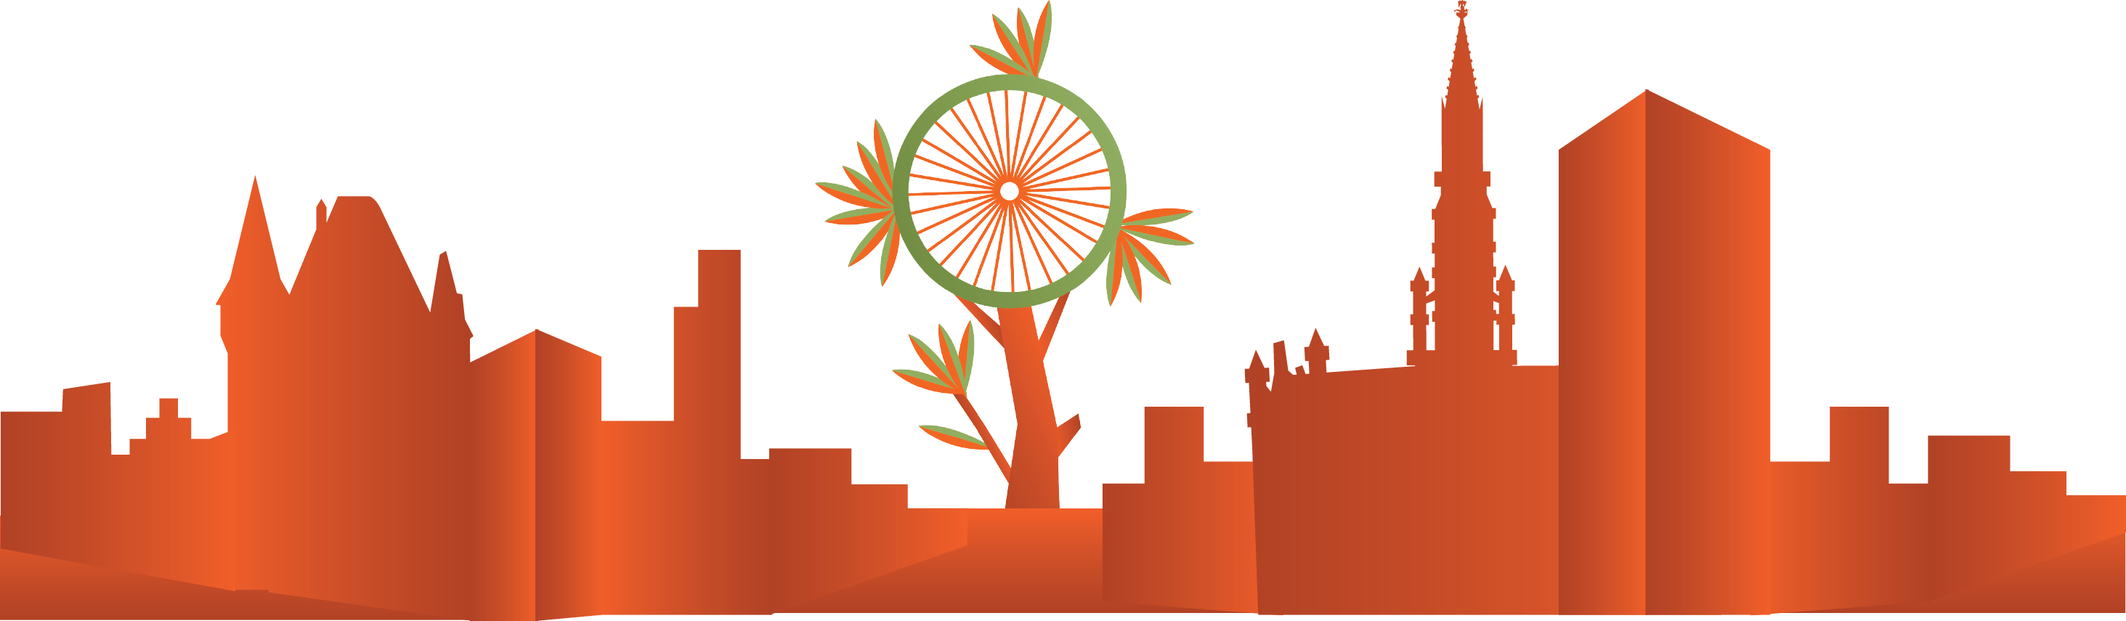
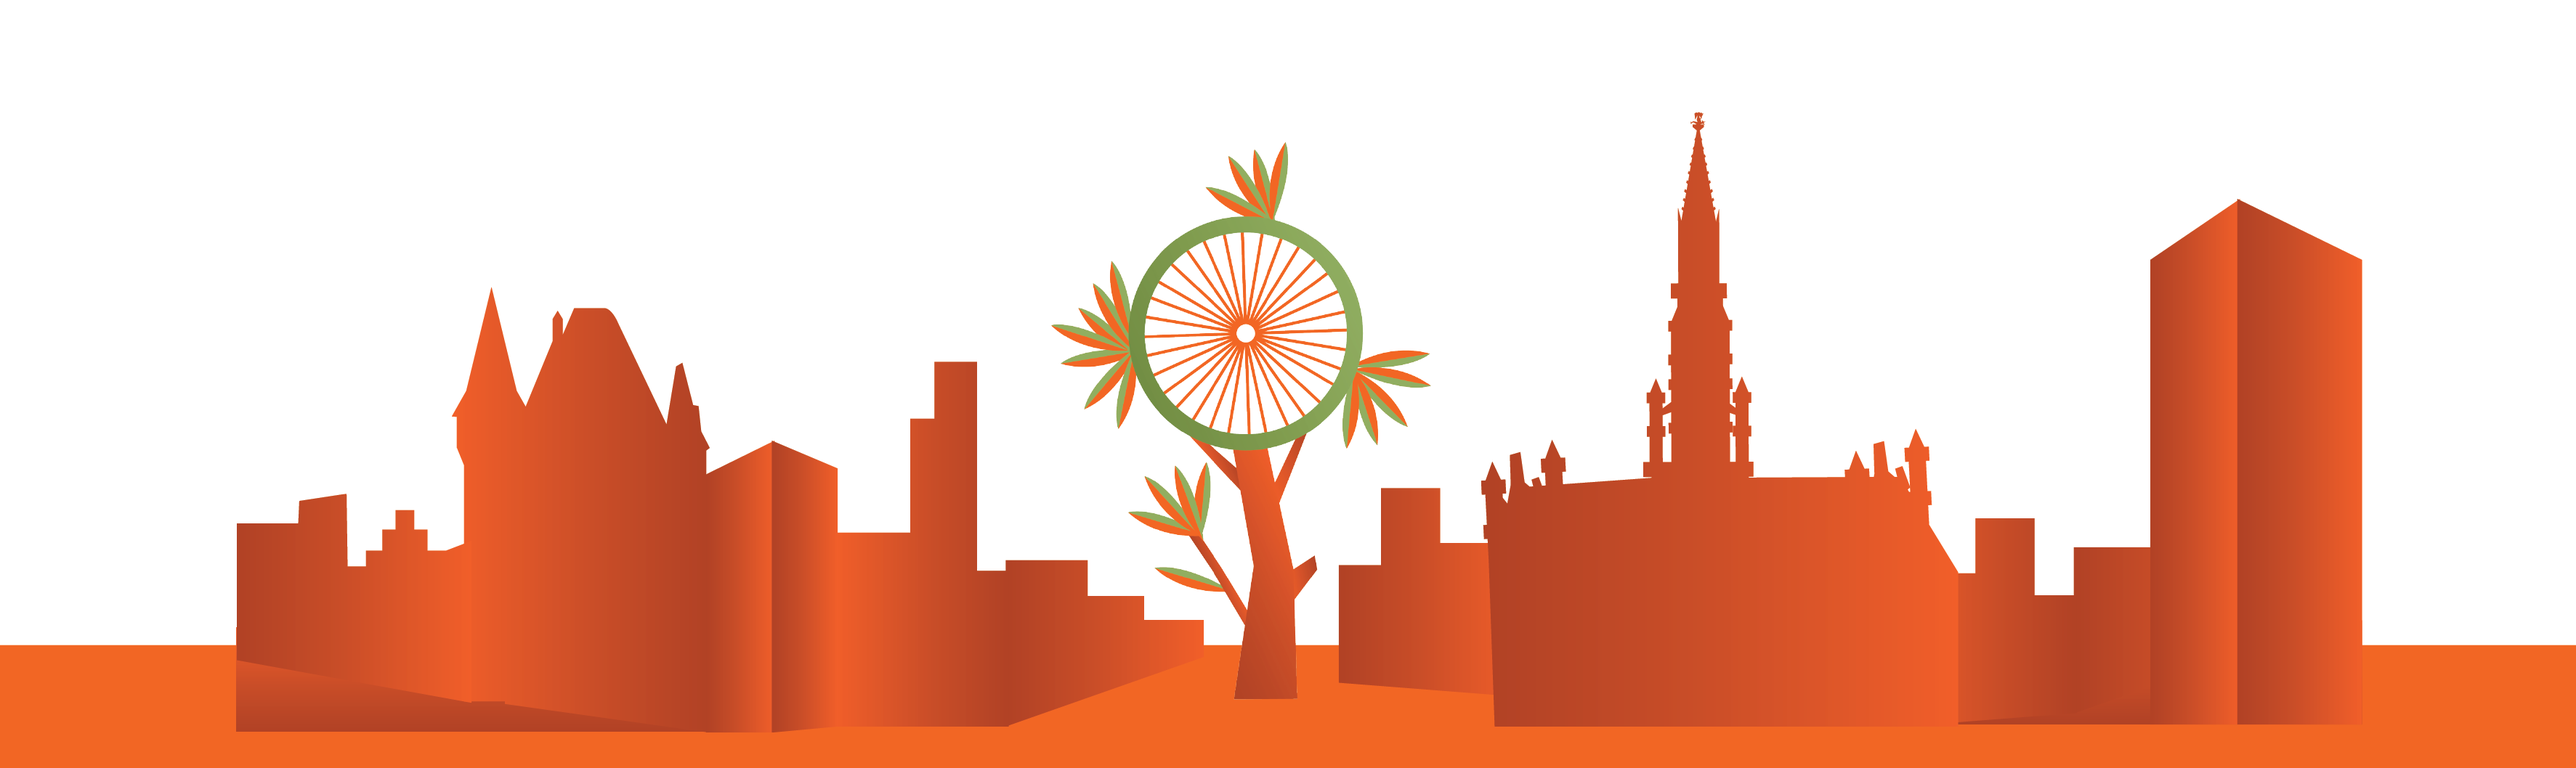
0.3

diff --git a/index.html b/index.html
@@ -54,7 +54,7 @@
           <!-- Navigation -->
           <div class="cyclop-navigation-container">
             <nav class="cyclop-navigation mdl-navigation">
-              <a class="mdl-navigation__link mdl-typography--text-uppercase" href="#asbl">L'assoc</a>
+              <a class="mdl-navigation__link mdl-typography--text-uppercase" href="#asbl">Het concept</a>
               <a class="mdl-navigation__link mdl-typography--text-uppercase" href="">L'équipe</a>
               <a class="mdl-navigation__link mdl-typography--text-uppercase" href="#bier">Commandes</a>
               <a class="mdl-navigation__link mdl-typography--text-uppercase" href="#contact">Contact</a>
@@ -64,28 +64,30 @@
             <i class="material-icons">more_vert</i>
           </button>
           <ul class="mdl-menu mdl-js-menu mdl-menu--bottom-right mdl-js-ripple-effect" for="more-button">
-            <li class="mdl-menu__item">5.0 Lollipop</li>
-            <li class="mdl-menu__item">4.4 KitKat</li>
-            <li disabled class="mdl-menu__item">4.3 Jelly Bean</li>
-            <li class="mdl-menu__item">cyclop History</li>
+            <li class="mdl-menu__item">Het concept</li>
+            <li class="mdl-menu__item">Het atelier</li>
+            <li hidden class="mdl-menu__item">4.3 Jelly Bean</li>
+            <li class="mdl-menu__item">Les Cyclopes</li>
           </ul>
         </div>
       </div>
 
       <div class="cyclop-drawer mdl-layout__drawer">
         <span class="mdl-layout-title">
-          <img class="cyclop-logo-image" src="images/cyclop-logoo.png">
+          <img class="cyclop-logo-image" src="images/cyclop-logo.png">
         </span>
         <nav class="mdl-navigation">
-          <a class="mdl-navigation__link" href="">Phones</a>
-          <a class="mdl-navigation__link" href="">Tablets</a>
+          <a class="mdl-navigation__link" href="">Het Concept</a>
           <div class="cyclop-drawer-separator"></div>
-          <span class="mdl-navigation__link" href="">Versions</span>
-          <a class="mdl-navigation__link" href="">Lollipop 5.0</a>
-          <a class="mdl-navigation__link" href="">KitKat 4.4</a>
+          <span hidden class="mdl-navigation__link" href="">Versions</span>
+          <a class="mdl-navigation__link" href="">Het Atelier</a>
+          <a class="mdl-navigation__link" href="">De Cyclopes</a>
+          <a class="mdl-navigation__link" href="">Vélo</a>
           <div class="cyclop-drawer-separator"></div>
-          <span class="mdl-navigation__link" href="">Resources</span>
-          <a class="mdl-navigation__link" href="">Official blog</a>
+          <span hidden class="mdl-navigation__link" href="">Resources</span>
+          <a class="mdl-navigation__link" href="">Bier</a>
+          <a class="mdl-navigation__link" href="">Cyclopagenda</a>
+          <a class="mdl-navigation__link" href="">Contact</a>
         </nav>
       </div>
 
@@ -133,20 +135,31 @@
         </div>
         <div class="cyclop-atelier-separation">
           <a name="atelier"></a>
+          <div class="cyclop-sub-title">Atelier</div>
         </div>
-        <div class="cyclop-atelier-section">
-          <div class="cyclop-atelier-band">
-            <div class="cyclop-atelier-band-text">
-              <div class="cyclop-sub-title">Atelier</div>
+            <div class="cyclop-atelier-section">
+              <div class="cyclop-atelier-band">
+                <div class="cyclop-atelier-band-text">
+                  <p>
+                    We hebben een lokaal in de quartier Anneessens
+                    <br>Allez, ‘t is te zeggen op de rand ervan, en juist op de rand met de Marollen
+                    <br>'t is in de Rue du Midi 165a, dichtbij place Rouppe
+                    <br>On adore le quartier et ses habitants, car on y retrouve la vie. Vous pouvez nous trouver (presque) elke maandag vanaf 18h tot ongeveer 20h
+                    <br>dans le local ou à l’extérieur, avec les kets et les adultes du quartier
+                    <br><br>Maar we bougeren ook dans tout les coins (de Bruxelles)
+                    <br>Les mercredis après-midi, nous assistons des associations de l’Aide à la jeunesse en Milieu Ouvert (AMO)
+                    <br>pour faciliter l’apprentisage des kets d’un tas des choses, à travers la mécanique vélo
+                  </p>
+                </div>
+              </div>
+            </div>
+        <div class="cyclop-cyclopes-section">
+          <div class="cyclop-cyclopes-bad">
+            <div class="cyclop-cyclopes-band-text">
+              <div class="cyclop-sub-title">De Cyclopes</div>
               <p>
-                We hebben een lokaal in de quartier Anneessens
-                <br>Allez, ‘t is te zeggen op de rand ervan, en juist op de rand met de Marollen
-                <br>'t is in de Rue du Midi 165a, dichtbij place Rouppe
-                <br>On adore le quartier et ses habitants, car on y retrouve la vie. Vous pouvez nous trouver (presque) elke maandag vanaf 18h tot ongeveer 20h
-                <br>dans le local ou à l’extérieur, avec les kets et les adultes du quartier
-                <br><br>Maar we bougeren ook dans tout les coins (de Bruxelles)
-                <br>Les mercredis après-midi, nous assistons des associations de l’Aide à la jeunesse en Milieu Ouvert (AMO)
-                <br>pour faciliter l’apprentisage des kets d’un tas des choses, à travers la mécanique vélo
+                La storyline 
+                <br>L'équipe, les amis
               </p>
             </div>
           </div>
@@ -182,13 +195,57 @@
                 </div>
                 <div class="mdl-card__title mdl-card--expand">
                   <h4>
-                    20 Septembre 2015<br>
+                    20/09/2015<br>
                     de 10h à 17h
                   </h4>
                 </div>
                 <div class="mdl-card__actions mdl-card--border">
                   <a class="mdl-button mdl-button--colored mdl-js-button mdl-js-ripple-effect">
-                    Ajouter à mes événements
+                    Viens !
+                  </a>
+                  <div class="mdl-layout-spacer"></div>
+                  <i class="material-icons">event</i>
+                </div>
+              </div>
+            </div>
+
+            <div class="mdl-cell mdl-cell--3-col mdl-cell--4-col-tablet mdl-cell--4-col-phone mdl-card mdl-shadow--3dp">
+              <div class="demo-card-event mdl-card mdl-shadow--2dp">
+                <div class="mdl-card__media">
+                  <h3> Apéro Dring Drink
+                  </h3>
+                </div>
+                <div class="mdl-card__title mdl-card--expand">
+                  <h4>
+                    17/09/2015<br>
+                    à partir de 17h
+                  </h4>
+                </div>
+                <div class="mdl-card__actions mdl-card--border">
+                  <a class="mdl-button mdl-button--colored mdl-js-button mdl-js-ripple-effect">
+                    Viens !
+                  </a>
+                  <div class="mdl-layout-spacer"></div>
+                  <i class="material-icons">event</i>
+                </div>
+              </div>
+            </div>
+
+            <div class="mdl-cell mdl-cell--3-col mdl-cell--4-col-tablet mdl-cell--4-col-phone mdl-card mdl-shadow--3dp">
+              <div class="demo-card-event mdl-card mdl-shadow--2dp">
+                <div class="mdl-card__media">
+                  <h3> Mad Bike
+                  </h3>
+                </div>
+                <div class="mdl-card__title mdl-card--expand">
+                  <h4>
+                    18/09/2015<br>
+                    20/09/2015
+                  </h4>
+                </div>
+                <div class="mdl-card__actions mdl-card--border">
+                  <a class="mdl-button mdl-button--colored mdl-js-button mdl-js-ripple-effect">
+                    Viens !
                   </a>
                   <div class="mdl-layout-spacer"></div>
                   <i class="material-icons">event</i>
@@ -204,53 +261,17 @@
                 </div>
                 <div class="mdl-card__title mdl-card--expand">
                   <h4>
-                    21 Septembre 2015<br>
+                    Chaque Maandag<br>
                     à partir de 18h
                   </h4>
                 </div>
                 <div class="mdl-card__actions mdl-card--border">
                   <a class="mdl-button mdl-button--colored mdl-js-button mdl-js-ripple-effect">
-                    Ajouter à mes événements
+                    Viens !
                   </a>
                   <div class="mdl-layout-spacer"></div>
                   <i class="material-icons">event</i>
                 </div>
-              </div>
-            </div>
-
-            <div class="mdl-cell mdl-cell--3-col mdl-cell--4-col-tablet mdl-cell--4-col-phone mdl-card mdl-shadow--3dp">
-              <div class="mdl-card__media">
-                <img src="">
-              </div>
-              <div class="mdl-card__title">
-                 <h4 class="mdl-card__title-text">Get a clean customisable home asbl</h4>
-              </div>
-              <div class="mdl-card__supporting-text">
-                <span class="mdl-typography--font-light mdl-typography--subhead">A clean, simple, customisable home asbl that comes with the power of Google Now: Traffic alerts, weather and much more, just a swipe away.</span>
-              </div>
-              <div class="mdl-card__actions">
-                 <a class="cyclop-link mdl-button mdl-js-button mdl-typography--text-uppercase" href="">
-                   Download now
-                   <i class="material-icons">chevron_right</i>
-                 </a>
-              </div>
-            </div>
-
-            <div class="mdl-cell mdl-cell--3-col mdl-cell--4-col-tablet mdl-cell--4-col-phone mdl-card mdl-shadow--3dp">
-              <div class="mdl-card__media">
-                <img src="">
-              </div>
-              <div class="mdl-card__title">
-                 <h4 class="mdl-card__title-text">Millions to choose from</h4>
-              </div>
-              <div class="mdl-card__supporting-text">
-                <span class="mdl-typography--font-light mdl-typography--subhead">Hail a taxi, find a recipe, run through a temple – Google Play has all the apps and games that let you make your cyclop device uniquely yours.</span>
-              </div>
-              <div class="mdl-card__actions">
-                 <a class="cyclop-link mdl-button mdl-js-button mdl-typography--text-uppercase" href="">
-                   Find apps
-                   <i class="material-icons">chevron_right</i>
-                 </a>
               </div>
             </div>
           </div>
@@ -288,28 +309,28 @@
               <div class="">
                 <a rel="license" href="http://creativecommons.org/licenses/by-nc-sa/4.0/"><img alt="Licence Creative Commons" style="border-width:0" src="https://i.creativecommons.org/l/by-nc-sa/4.0/88x31.png" /></a>
               </div>
-            <a class="cyclop-link cyclop-link-menu mdl-typography--font-light" id="version-dropdown">
+            <a hidden class="cyclop-link cyclop-link-menu mdl-typography--font-light" id="version-dropdown">
               Versions
               <i class="material-icons">arrow_drop_up</i>
             </a>
-            <ul class="mdl-menu mdl-js-menu mdl-menu--top-left mdl-js-ripple-effect" for="version-dropdown">
+            <ul hidden class="mdl-menu mdl-js-menu mdl-menu--top-left mdl-js-ripple-effect" for="version-dropdown">
               <li class="mdl-menu__item">5.0 Lollipop</li>
               <li class="mdl-menu__item">4.4 KitKat</li>
               <li class="mdl-menu__item">4.3 Jelly Bean</li>
               <li class="mdl-menu__item">cyclop History</li>
             </ul>
-            <a class="cyclop-link cyclop-link-menu mdl-typography--font-light" id="developers-dropdown">
+            <a hidden class="cyclop-link cyclop-link-menu mdl-typography--font-light" id="developers-dropdown">
               For Developers
               <i class="material-icons">arrow_drop_up</i>
             </a>
-            <ul class="mdl-menu mdl-js-menu mdl-menu--top-left mdl-js-ripple-effect" for="developers-dropdown">
+            <ul hidden class="mdl-menu mdl-js-menu mdl-menu--top-left mdl-js-ripple-effect" for="developers-dropdown">
               <li class="mdl-menu__item">App developer resources</li>
               <li class="mdl-menu__item">cyclop Open Source Project</li>
               <li class="mdl-menu__item">cyclop SDK</li>
               <li class="mdl-menu__item">cyclop for Work</li>
             </ul>
-            <a class="cyclop-link mdl-typography--font-light" href="">Blog</a>
-            <a class="cyclop-link mdl-typography--font-light" href="">Privacy Policy</a>
+            <a hidden class="cyclop-link mdl-typography--font-light" href="">Blog</a>
+            <a hidden class="cyclop-link mdl-typography--font-light" href="">Privacy Policy</a>
           </div>
 
         </footer>

diff --git a/styles.css b/styles.css
@@ -371,38 +371,60 @@ a img{
 
 .cyclop-atelier-separation {
   position: relative;
-  background: url('images/brux.png') no-repeat;
-  background-position: 50% 180%;
+  background: url('images/brux.png') center 30% no-repeat scroll;
   background-color: #ffffff;
-  background-size: contain;
-  height: 400px;
-}
+  background-size: cover;
+  height: 600px;
+  padding-top:  24px;
+  }
 
 .cyclop-atelier-section {
   position: relative;
-  background-color: #a5bc7e;
-  padding: 24px;
-}
-  .cyclop-atelier-band {
-  position: relative;
-  bottom: 0;
+  }
+    .cyclop-atelier-band {
   width: 100%;
   text-align: center;
-  background-color: #a5bc7e;
-}
+  background-color: #f26522;
+    }
 
-.cyclop-atelier-band-text {
+    .cyclop-atelier-band-text {
   max-width: 800px;
   margin-left: auto;
   margin-right: auto;
   text-align: center;
   color: white;
-}
+  padding-bottom: 24px;
+    }
 
   .cyclop-atelier-band-text p {
     padding-top: 8px;
     font-size: 21px;
   }
+
+.cyclop-cyclopes-section {
+    position: relative;
+    bottom: 0;
+    padding: 24px;
+    z-index: 2;
+    background: #a5bc7e;
+  }
+      .cyclop-cyclopes-band {
+    width: 100%;
+    text-align: center;
+      }
+
+      .cyclop-cyclopes-band-text {
+    max-width: 800px;
+    margin-left: auto;
+    margin-right: auto;
+    text-align: center;
+    color: white;
+      }
+
+    .cyclop-cyclopes-band-text p {
+      padding-top: 8px;
+      font-size: 21px;
+    }
 
 .cyclop-link {
   text-decoration: none;
@@ -557,30 +579,30 @@ a img{
   }
 
   .mdl-button--fab {
-        text-transform: lowercase;
-        font-size: 36px;
+      text-transform: lowercase;
+      font-size: 36px;
     }
     .mdl-button.mdl-button--facebook {
-        color: rgb(63, 81, 181);
+      color: rgb(63, 81, 181);
     }
     .mdl-button.mdl-button--facebook:focus:not(:active) {
-        background-color: #3b5998;
+      background-color: #3b5998;
     }
     .mdl-button--fab.mdl-button--facebook {
-        background: #3b5998;
-        color: #ffffff;
+      background: #3b5998;
+      color: #ffffff;
     }
     .mdl-button--fab.mdl-button--facebook:hover {
-        background-color: #1f3054;
+      background-color: #1f3054;
     }
     .mdl-button--fab.mdl-button--facebook:focus:not(:active) {
-        background-color: #3b5998;
+      background-color: #3b5998;
     }
     .mdl-button--fab.mdl-button--facebook:active {
-        background-color: #3b5998;
+      background-color: #3b5998;
     }
     .mdl-button--fab.mdl-button--facebook .mdl-ripple {
-    background: rgb(255, 255, 255);
+      background: rgb(255, 255, 255);
     }
 
     .mdl-button.mdl-button--mail:focus:not(:active) {
@@ -611,6 +633,7 @@ a img{
 .demo-card-event.mdl-card {
   width: auto;
   height: auto;
+  position: relative;
 }
 .demo-card-event > .mdl-card__actions {
   border-color: rgba(255, 255, 255, 0.2);
@@ -621,6 +644,10 @@ a img{
 .demo-card-event > .mdl-card__title > h4 {
   margin-top: 0;
   padding-bottom: 25px;
+}
+.mdl-card__actions {
+  position: absolute;
+  bottom: 0;
 }
 .demo-card-event > .mdl-card__actions {
   display: flex;
